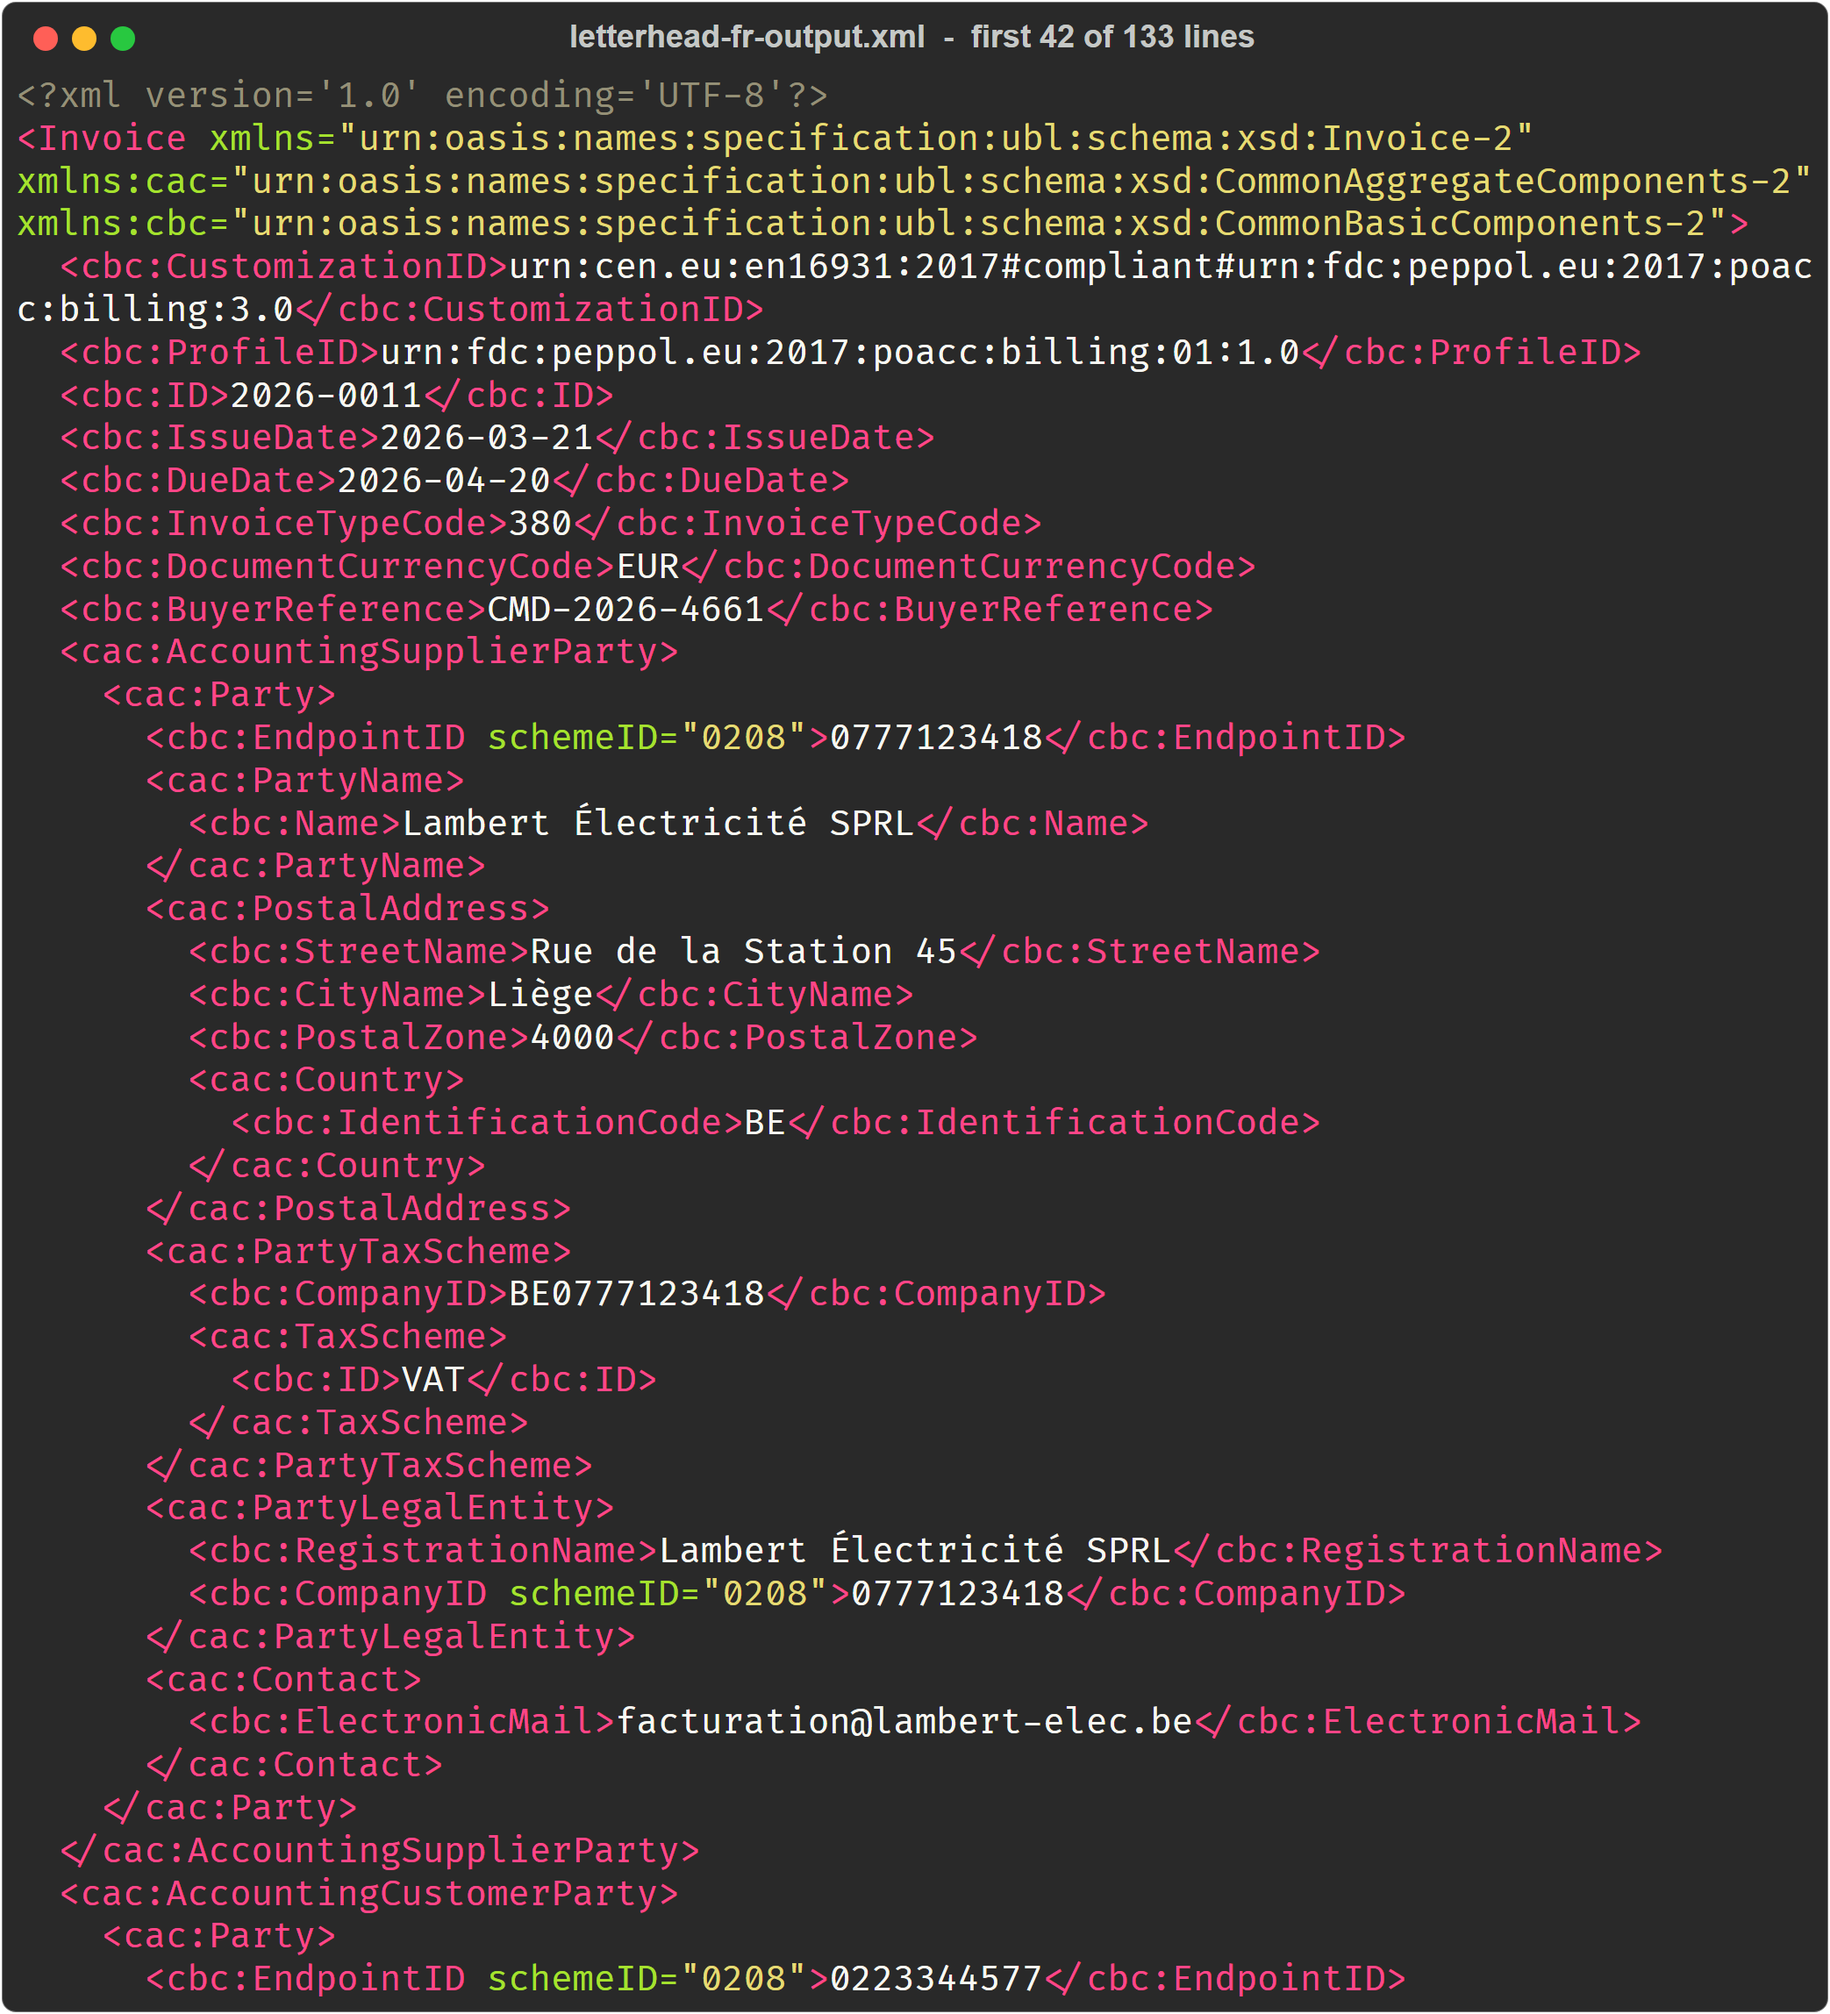
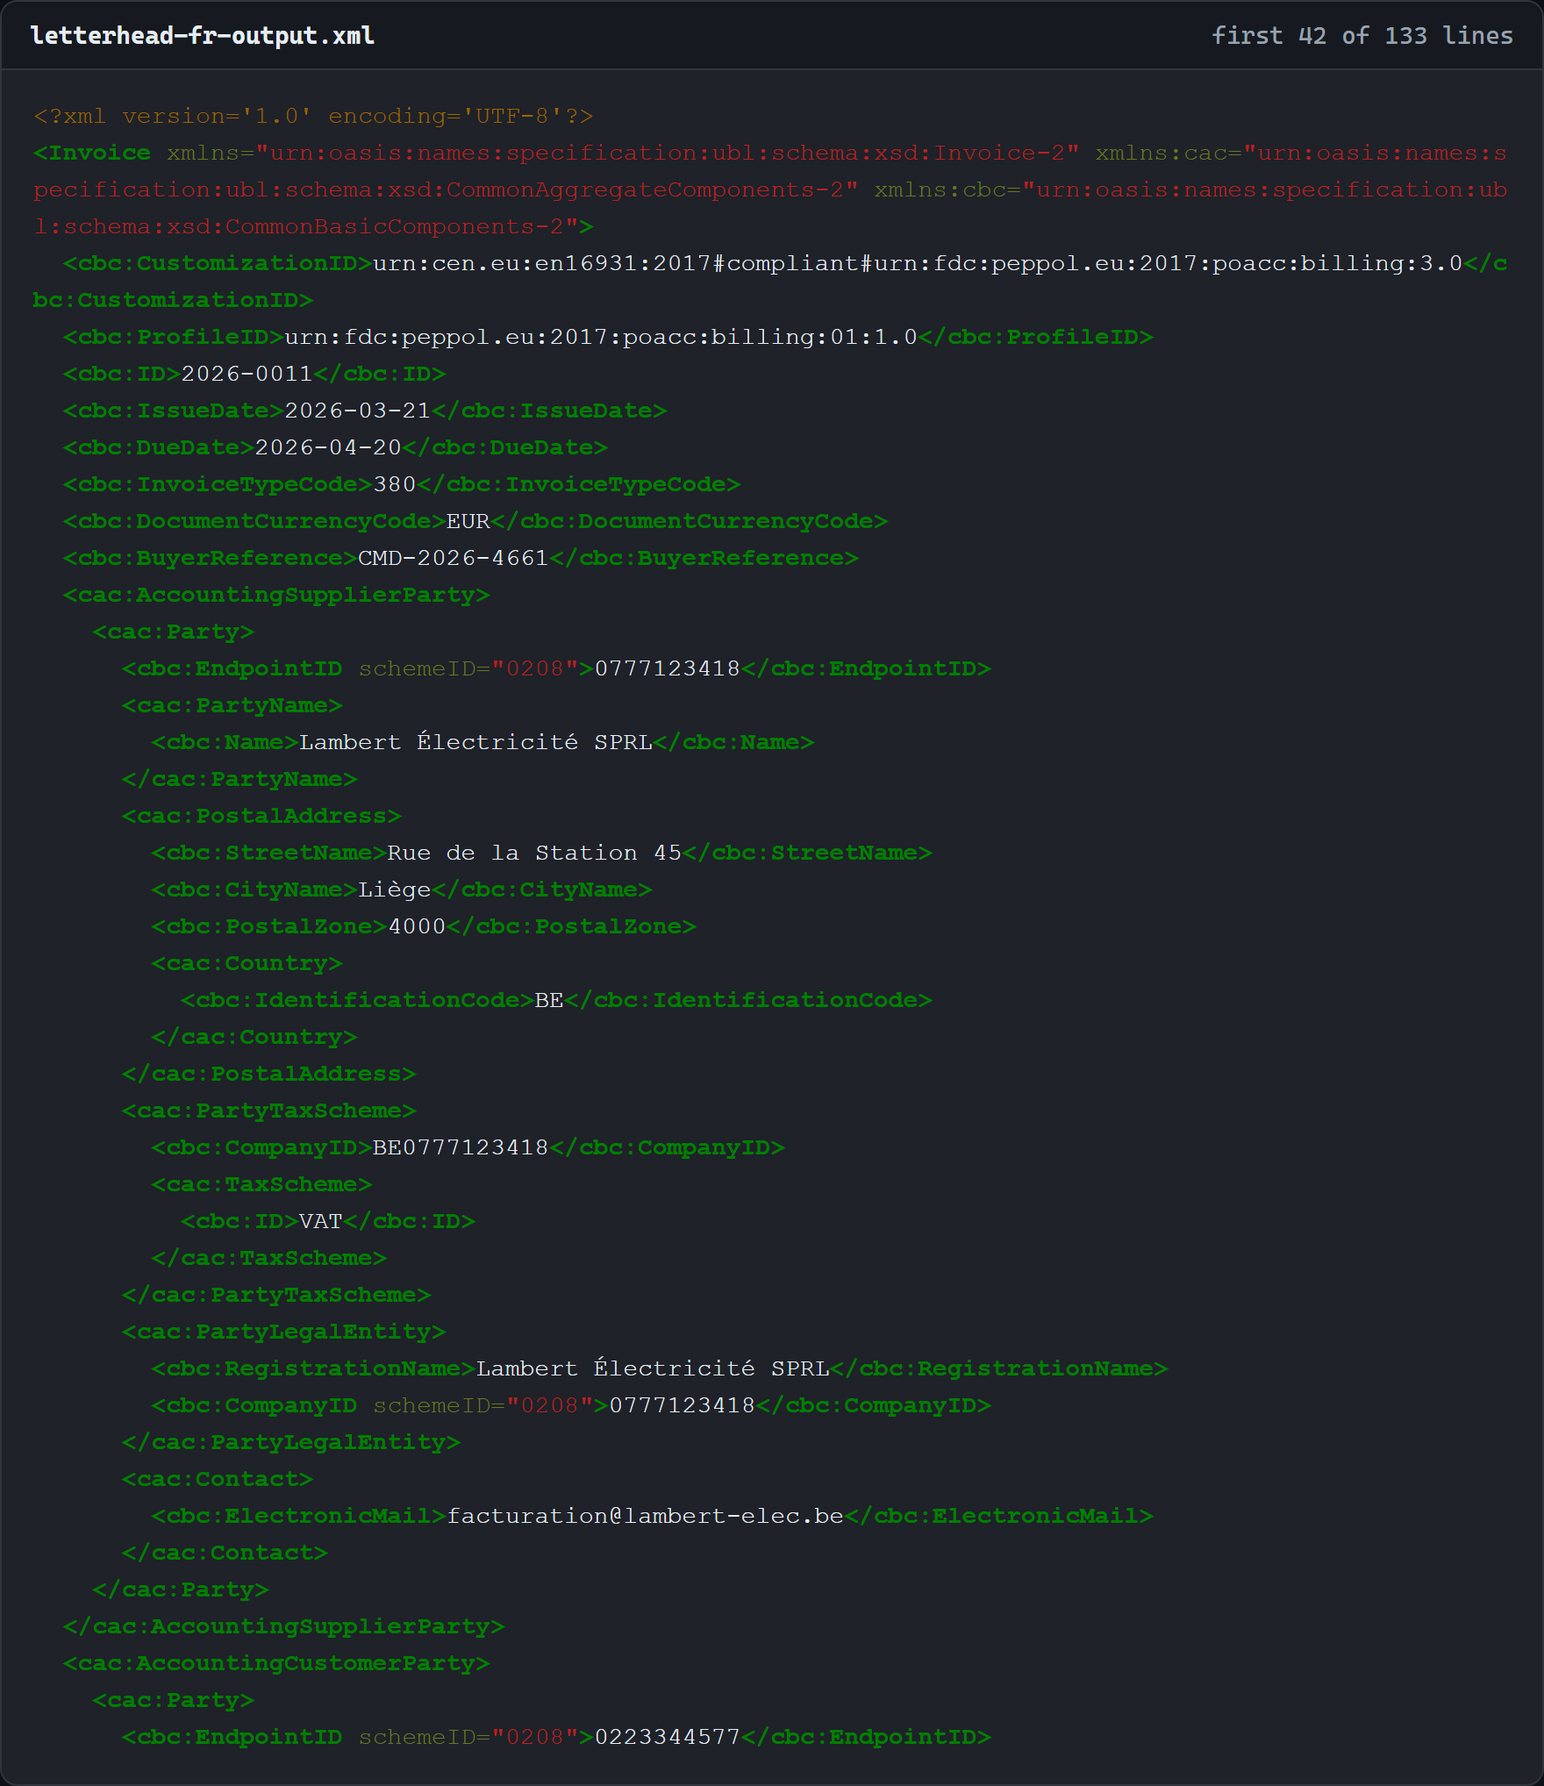
docs: draw the "after" image as a file, not as a terminal window
Rich's SVG export frames everything in a terminal window - traffic lights, a
title bar - so the UBL invoice beside the PDF read as console output. A reader
asked whether it was extracted data still waiting to be entered into Peppol,
which is exactly the wrong impression: that file is the deliverable.

The image is now rendered as a file: a header naming it and stating how much of
it is shown, Pygments highlighting, no window chrome. Both READMEs also say in
words what the picture was supposed to say - it is the invoice itself, an access
point transmits that exact document, nobody retypes anything.

Changed region(s): [[0.0, 0.0, 1.0, 1.0], [0.7812, 0.0, 1.0, 0.0309]]

diff --git a/scripts/make_readme_assets.py b/scripts/make_readme_assets.py
@@ -1,9 +1,9 @@
 """Build the images at the top of the README.
 
     docs/images/invoice.png     the before: a corpus invoice as rendered
-    docs/images/output.svg      the after: the head of the UBL it converted to
+    docs/images/output.png      the after: the head of the UBL it converted to
     docs/images/terminal.svg    the run itself: a real `convert`, then `check`
-    docs/images/*.png           the two SVGs rasterised, because GitHub strips the
+    docs/images/terminal.png    that SVG rasterised, because GitHub strips the
                                 <style> block out of an SVG in a README and every
                                 colour lives in it - the image renders, but blank.
                                 The READMEs reference the PNGs.
@@ -85,27 +85,55 @@ def terminal_svg() -> Path:
     return target
 
 
-def output_svg() -> Path:
+#: A file, drawn as a file. Rich's SVG export wraps everything in a terminal
+#: window, which made the README's "after" image read as console output rather
+#: than as the invoice itself - the one thing that picture has to convey.
+OUTPUT_PAGE = """<!doctype html>
+<html><body style="margin:0;padding:20px;background:#0d1117;
+    font-family:ui-monospace,'Cascadia Code','Fira Code',Consolas,monospace">
+  <div id="file" style="width:880px;box-sizing:border-box;background:#1f2229;
+      border:1px solid #30363d;border-radius:10px;overflow:hidden">
+    <div style="display:flex;justify-content:space-between;gap:32px;
+        padding:11px 16px;background:#161a20;border-bottom:1px solid #30363d;
+        color:#9aa4b0;font-size:14px">
+      <span style="color:#e6edf3"><b>{name}</b></span>
+      <span>first {shown} of {total} lines</span>
+    </div>
+    <pre style="margin:0;padding:16px 18px;font-size:14px;line-height:1.5;
+        color:#e6edf3;white-space:pre-wrap;word-break:break-all">{code}</pre>
+  </div>
+</body></html>"""
+
+
+def output_png() -> Path:
     """The head of the UBL the demo run produced, as the README's "after" image.
 
     Read from the committed copy, so the picture and the file a reader can open
     cannot drift apart. It is the top of the document, not a curated selection:
-    the caption says how much of it this is.
+    the header says how much of it this is. Drawn as a file rather than through
+    rich's SVG export, which frames everything in a terminal window - the "after"
+    of a before-and-after must not look like console output.
     """
-    from rich.syntax import Syntax
+    from playwright.sync_api import sync_playwright
+    from pygments import highlight
+    from pygments.formatters import HtmlFormatter
+    from pygments.lexers import XmlLexer
 
     lines = OUTPUT.read_text(encoding="utf-8").splitlines()
     head = "\n".join(lines[:OUTPUT_LINES])
+    code = highlight(head, XmlLexer(), HtmlFormatter(noclasses=True, nowrap=True))
 
-    console = Console(record=True, width=84, force_terminal=True, color_system="truecolor")
-    console.print(
-        Syntax(head, "xml", theme="monokai", background_color="default", word_wrap=True)
+    html = OUTPUT_PAGE.format(
+        name=OUTPUT.name, shown=OUTPUT_LINES, total=len(lines), code=code.strip("\n")
     )
 
-    target = IMAGES / "output.svg"
-    console.save_svg(
-        str(target), title=f"{OUTPUT.name}  -  first {OUTPUT_LINES} of {len(lines)} lines"
-    )
+    target = IMAGES / "output.png"
+    with sync_playwright() as playwright:
+        browser = playwright.chromium.launch()
+        page = browser.new_page(viewport={"width": 920, "height": 600}, device_scale_factor=2)
+        page.set_content(html)
+        page.locator("#file").screenshot(path=str(target))
+        browser.close()
     return target
 
 
@@ -144,14 +172,8 @@ def _view_box(svg: Path) -> list[str]:
 
 def main() -> int:
     IMAGES.mkdir(parents=True, exist_ok=True)
-    terminal, output = terminal_svg(), output_svg()
-    written = (
-        invoice_png(),
-        terminal,
-        terminal_png(terminal),
-        output,
-        terminal_png(output, "output.png"),
-    )
+    terminal = terminal_svg()
+    written = (invoice_png(), terminal, terminal_png(terminal), output_png())
     for path in written:
         print(f"wrote {path.relative_to(ROOT)} ({path.stat().st_size // 1024} KB)")
     return 0

diff --git a/README.nl.md b/README.nl.md
@@ -36,10 +36,16 @@ Links wat een leverancier doormailt: een Franstalige factuur, met de vermelding
 verschuldigd is in plaats van de verkoper. Rechts wat de wet nu in de plaats vraagt,
 eruit gemaakt.
 
-| Ervoor: de pdf die binnenkomt | Erna: de e-factuur die eruit komt |
+| Ervoor: de pdf die binnenkomt | Erna: de e-factuur zelf |
 |---|---|
 | <img src="docs/images/invoice.png" alt="Een Franstalige factuur met verlegging van heffing" width="420"> | <img src="docs/images/output.png" alt="De eerste 42 lijnen van de UBL-factuur die eruit kwam" width="420"> |
 | [letterhead-fr.pdf](docs/samples/letterhead-fr.pdf) | [letterhead-fr-output.xml](docs/samples/letterhead-fr-output.xml) - beide bestanden zitten in deze repo |
+
+Het bestand rechts is geen samenvatting van de factuur, en ook geen data die nog
+ergens ingetikt moet worden. **Het ís de factuur** - het afgewerkte document in het
+formaat dat Peppol vervoert. Een access point pikt precies dat bestand op en levert
+het af, en de boekhoudsoftware van de klant boekt het in zonder dat er één lijn
+overgetypt wordt.
 
 Geen van beide beelden is een mock-up. Eén commando maakte van links rechts, een
 tweede controleerde het resultaat onafhankelijk - 8,9 seconden, 2,89 cent:

diff --git a/README.md b/README.md
@@ -32,10 +32,15 @@ On the left, what a supplier emails: a French invoice, with the line
 *"Autoliquidation"* - reverse charge, where the buyer owes the VAT instead of the
 seller. On the right, what the law now requires instead, produced from it.
 
-| Before: the PDF that arrives | After: the e-invoice it becomes |
+| Before: the PDF that arrives | After: the e-invoice itself |
 |---|---|
 | <img src="docs/images/invoice.png" alt="A French reverse-charge supplier invoice" width="420"> | <img src="docs/images/output.png" alt="The first 42 lines of the UBL invoice produced from it" width="420"> |
 | [letterhead-fr.pdf](docs/samples/letterhead-fr.pdf) | [letterhead-fr-output.xml](docs/samples/letterhead-fr-output.xml) - both files are in this repo |
+
+The file on the right is not a summary of the invoice, and not data waiting to be
+keyed into something else. **It is the invoice** - the finished document in the
+format Peppol carries. An access point picks up that exact file and delivers it,
+and the buyer's accounting software books it without anyone retyping a line.
 
 Neither picture is a mock-up. One command converted the left into the right, and a
 second one independently checked the result - 8.9 seconds, 2.89 cents:
